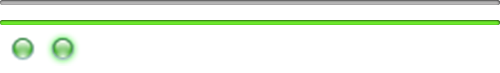
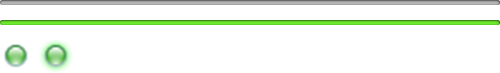
css

Changed region(s): [[0.0, 0.4658, 0.18, 0.9589]]

diff --git a/assets/js/jslider/css/jslider.largeRound.css b/assets/js/jslider/css/jslider.largeRound.css
@@ -1,5 +1,5 @@
 .jslider_largeRound .jslider-bg i,
 .jslider_largeRound .jslider-pointer { background-image: url(../img/jslider.largeRound.png); background-position: 0 -40px; }
-.jslider_largeRound .jslider-pointer { width: 34px; height: 34px; top: -6px; margin-left: -17px; }
+.jslider_largeRound .jslider-pointer { width: 34px; height: 34px; left: 40%; top: -6px; margin-left: -8px; }
 .jslider_largeRound .jslider-pointer-hover { background-position: -40px -40px; }
 .jslider .jslider-value { font-size: 16px; background: transparent; color: white; -webkit-border-radius: 0px; -o-border-radius: 0px; border-radius: 0px; }
